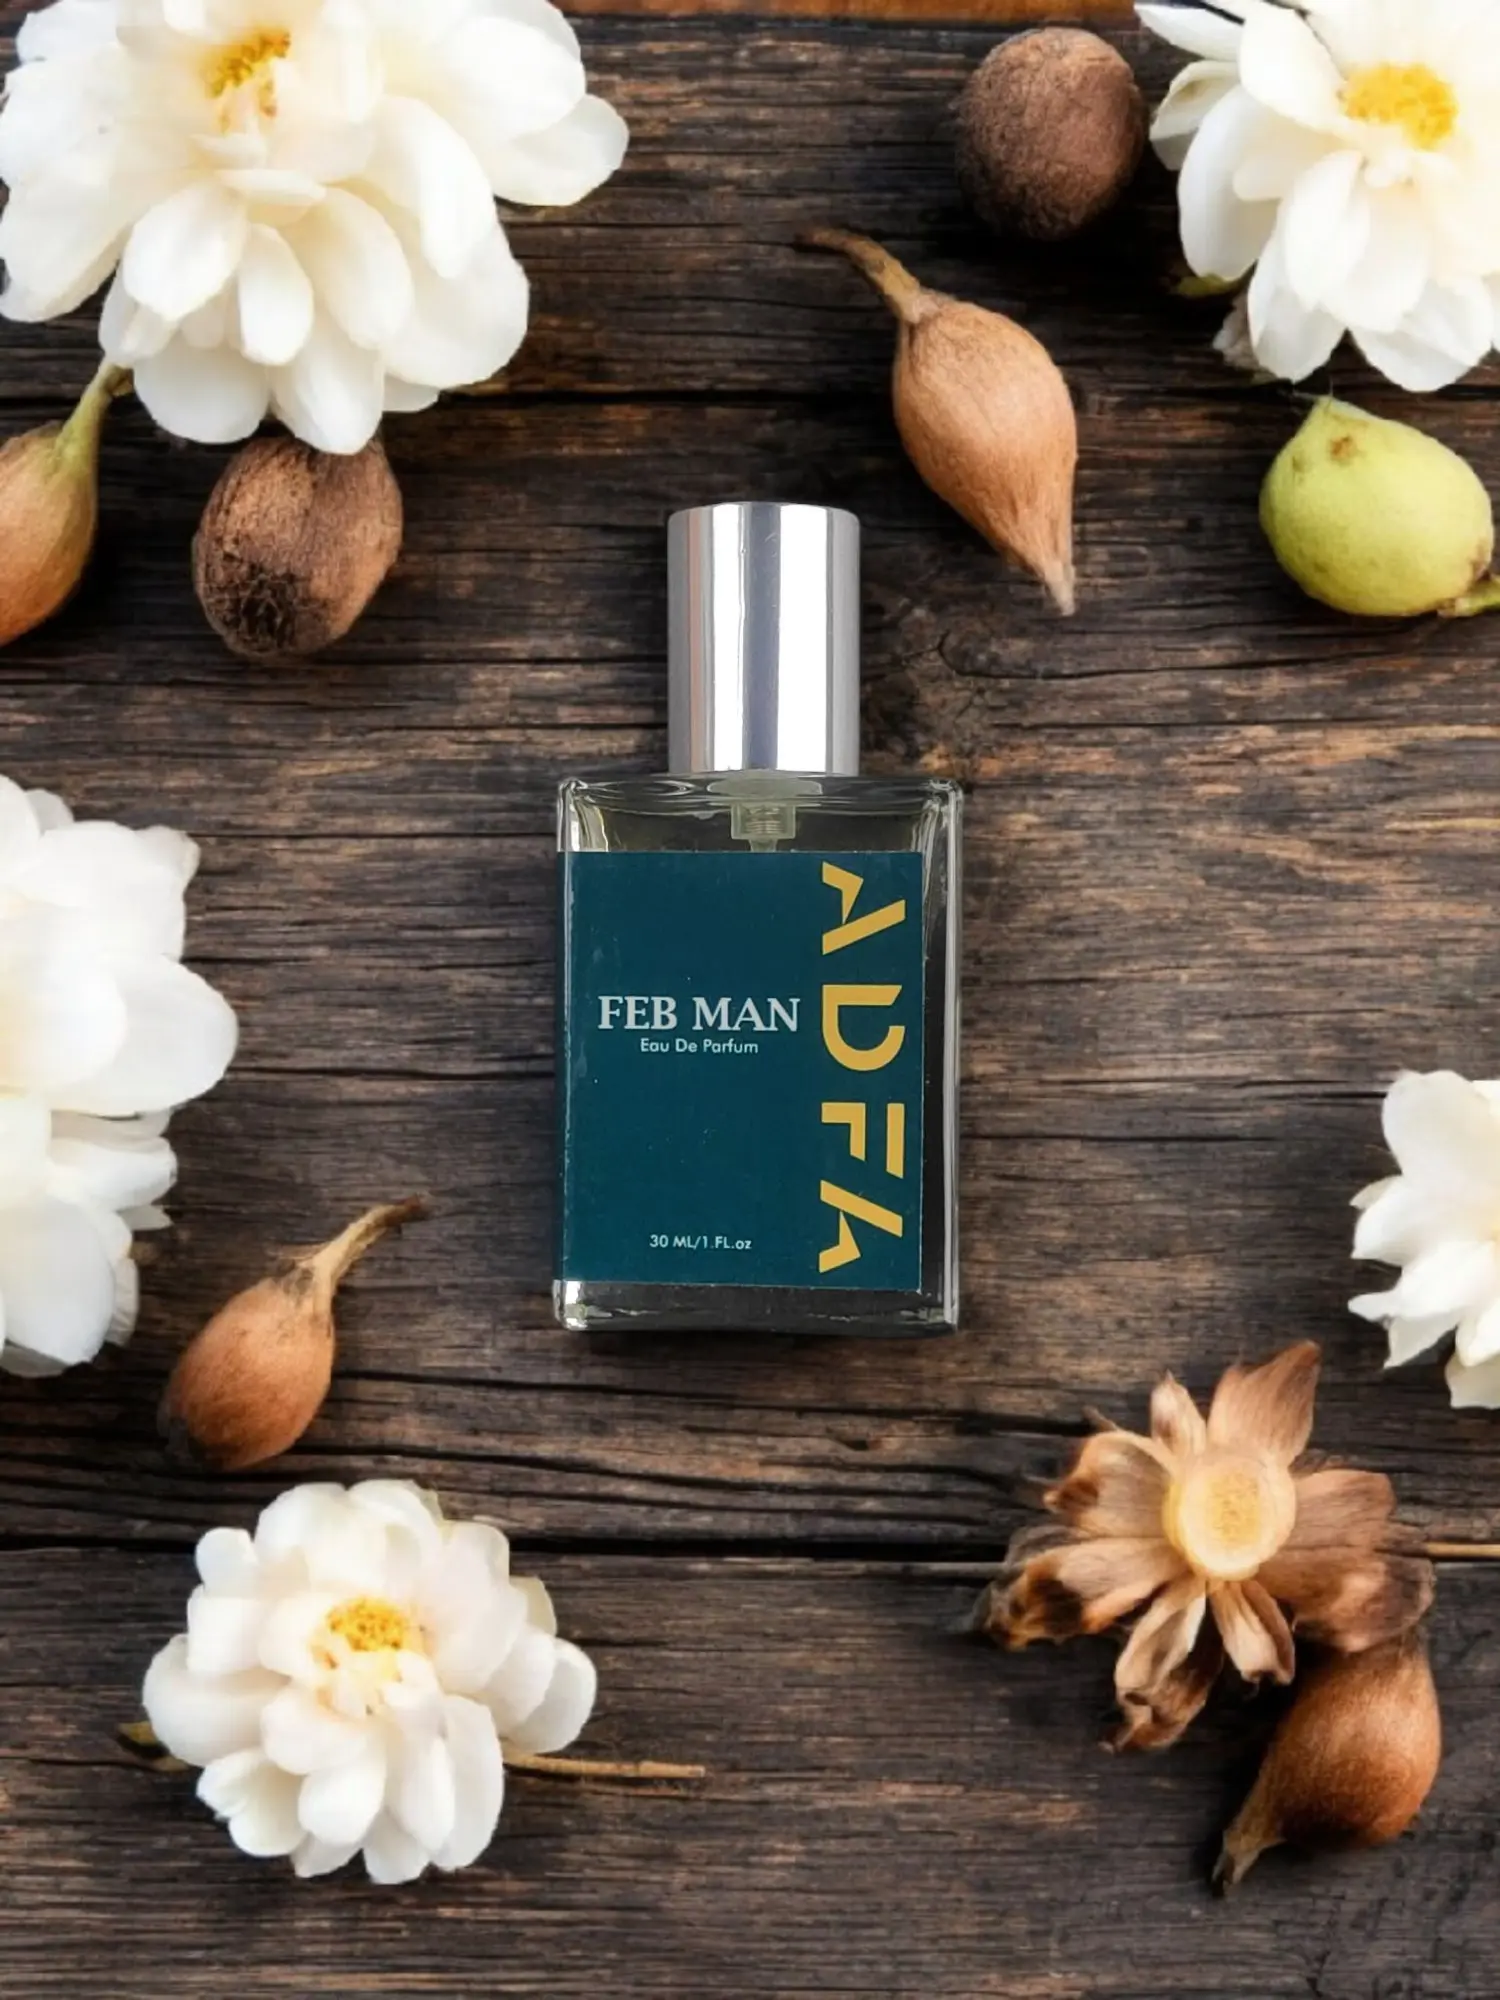
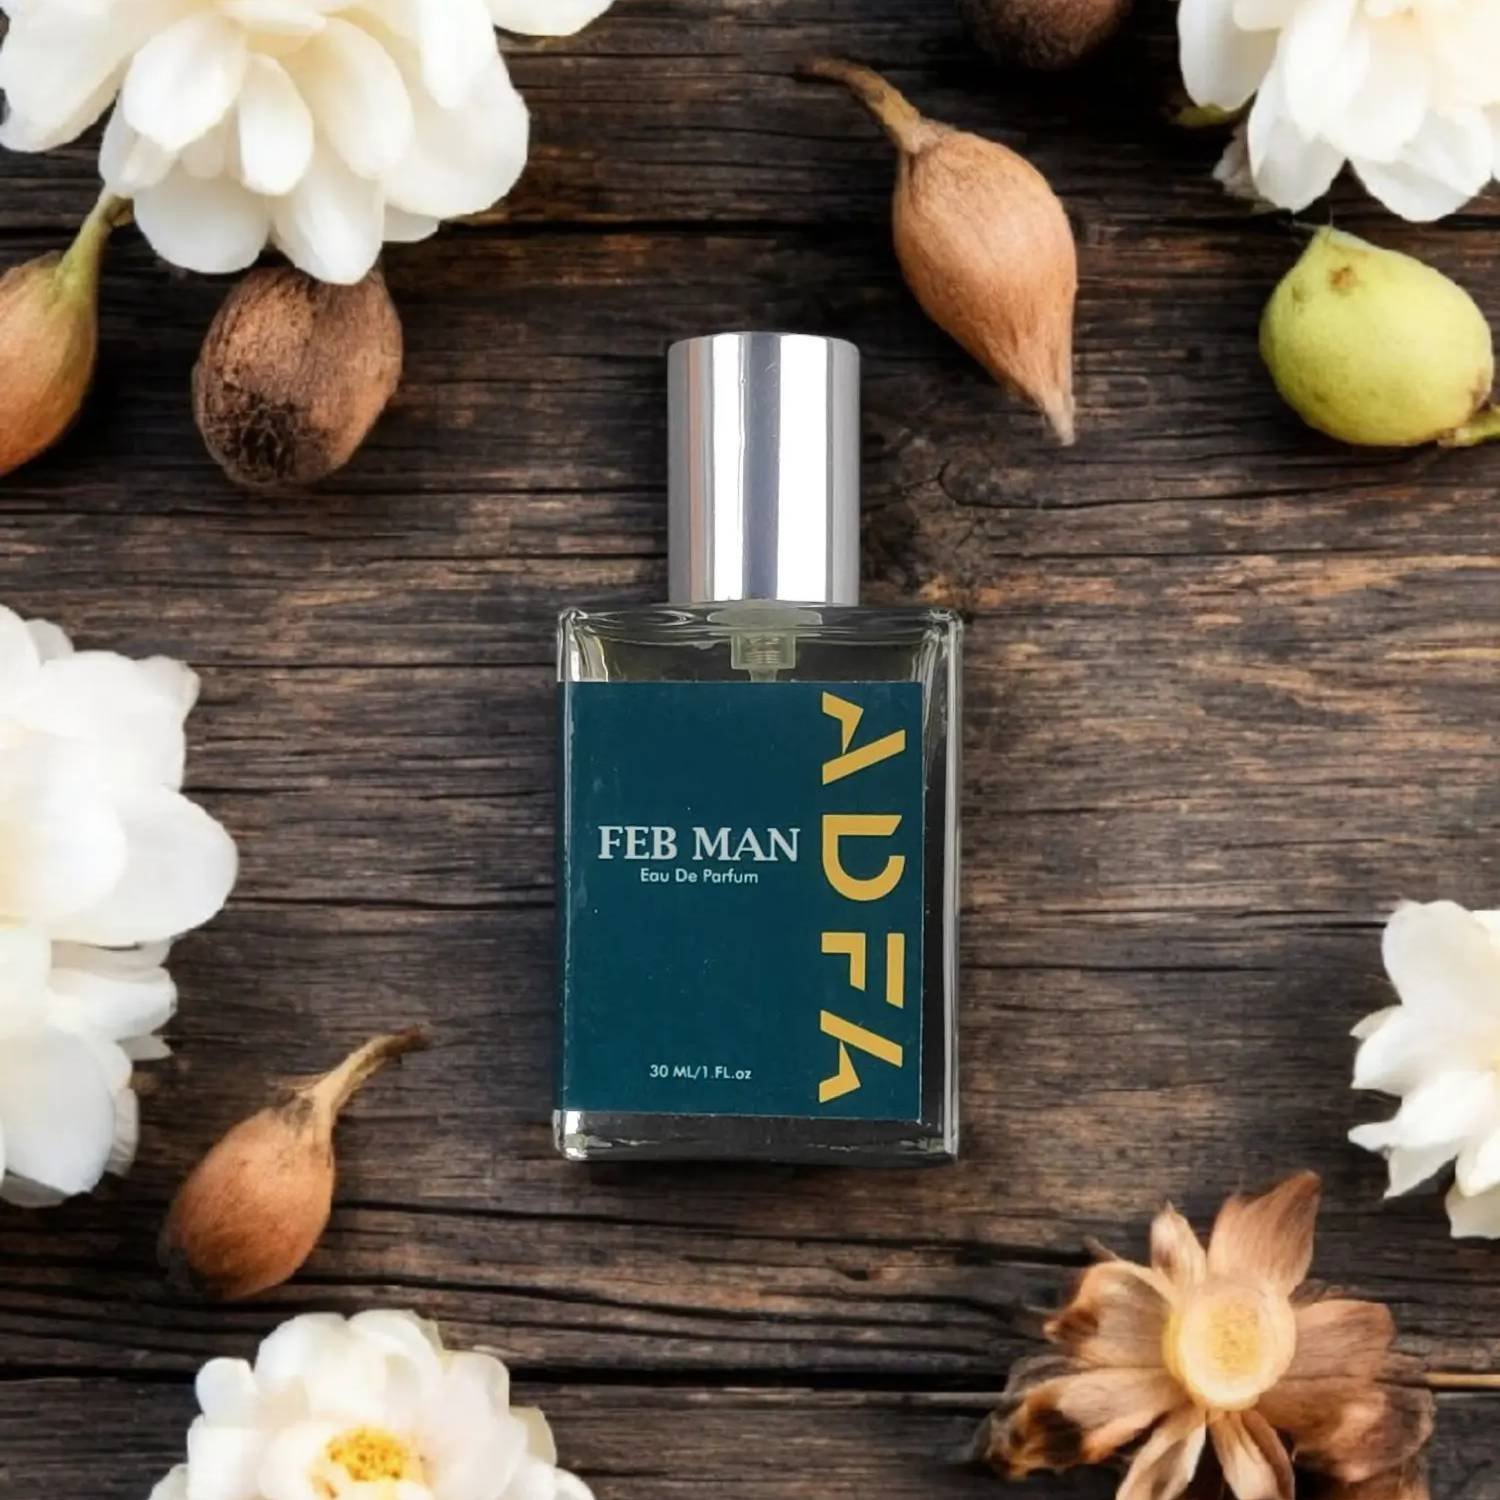
better produk

diff --git a/pages/produk.html b/pages/produk.html
@@ -31,6 +31,7 @@
       }
     }
     .clean-product-card {
+      position: relative;
       border: 1px solid var(--cpc-border-color);
       padding: 16px;
       display: flex;
@@ -45,6 +46,28 @@
       min-height: 420px;
       margin: 0 auto;
       box-sizing: border-box;
+    }
+    .product-placeholder {
+      position: absolute;
+      width: 40px;
+      height: 40px;
+      background-color: transparent;
+      border: none;
+      border-radius: 0;
+      pointer-events: none;
+      z-index: 10;
+    }
+    .product-placeholder.left {
+      top: 0;
+      left: 0;
+      border-top-left-radius: 4px;
+      border-bottom-right-radius: 0;
+    }
+    .product-placeholder.right {
+      top: 0;
+      right: 0;
+      border-top-right-radius: 4px;
+      border-bottom-left-radius: 0;
     }
     .cpc-image-area {
       position: relative;
@@ -72,9 +95,9 @@
       color: var(--cpc-text-color);
     }
     .cpc-image-area img {
-      max-height: 100%;
-      max-width: 100%;
-      object-fit: contain;
+      width: 100%;
+      height: 100%;
+      object-fit: cover;
       z-index: 1;
       display: block;
       margin: 0 auto;
@@ -173,6 +196,8 @@
     <h2 class="section-title" style="text-align: center;">Temukan Aromamu Disini</h2>
     <div class="produk-container">
       <div class="clean-product-card">
+        <div class="product-placeholder left"></div>
+        <div class="product-placeholder right"></div>
         <div class="cpc-image-area">
           <img src="../assets/images/products/BG_Ingredients/24_Women.webp" alt="24 Women" />
         </div>
